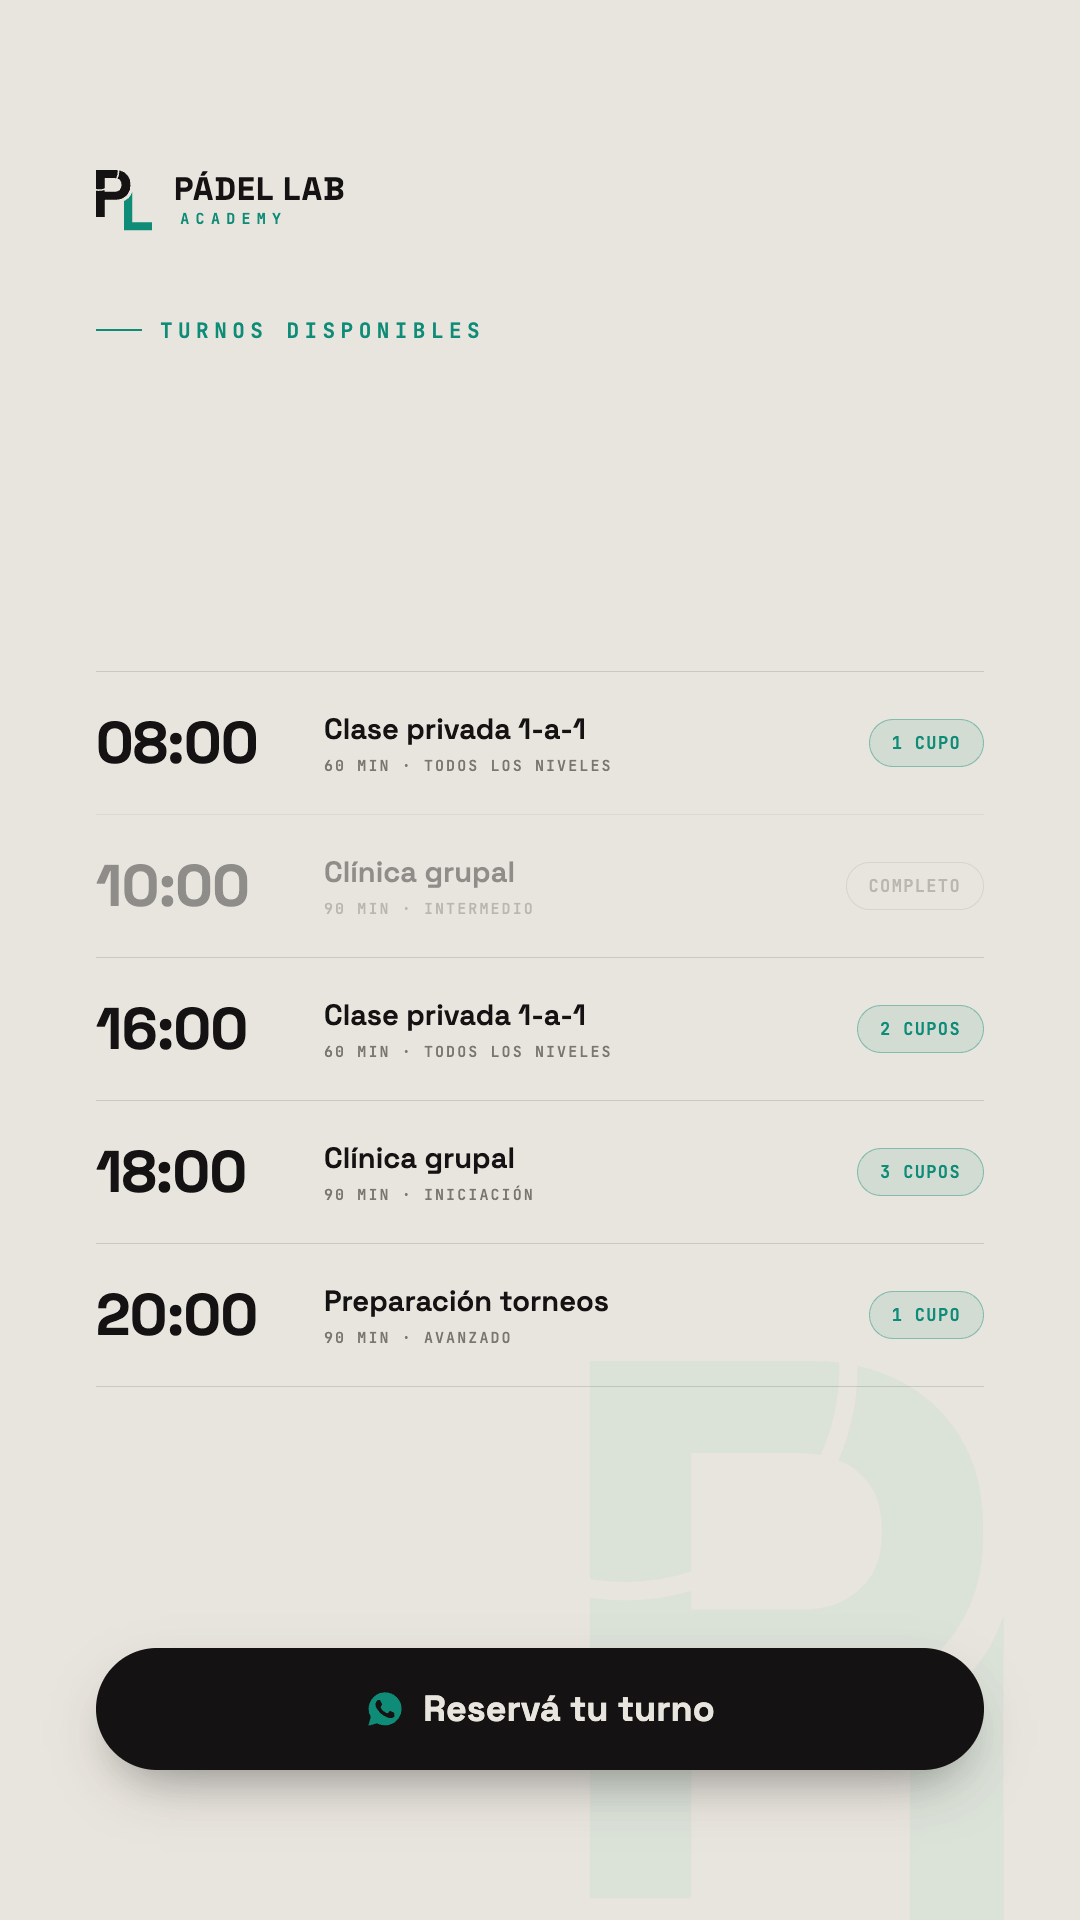
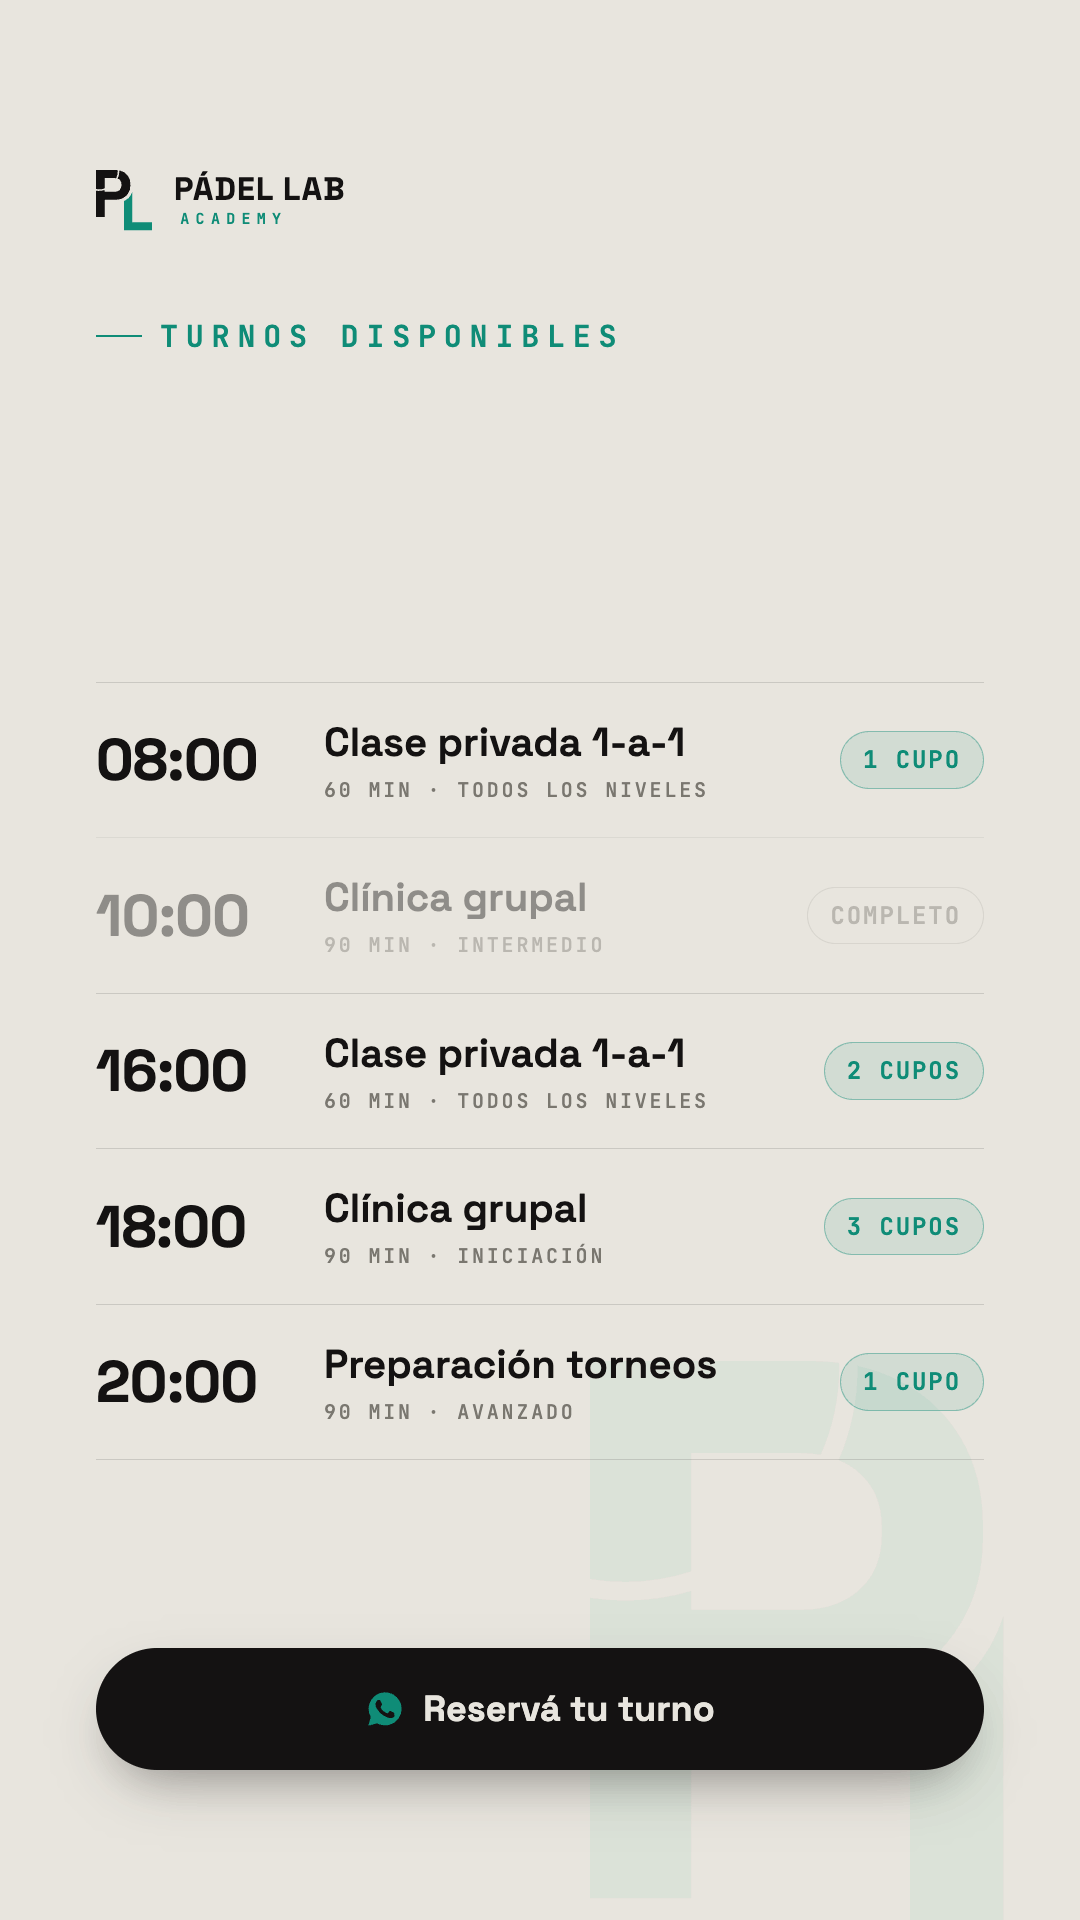
feat: plantilla nueva y métricas recalibradas al diseño actualizado
- assets/plantilla.png reemplazada por el diseño nuevo (eyebrow más grande)
- Filas medidas del nuevo ejemplo: arrancan en y=682 con paso 155,5
- Nombre y bajada más juntos (centro-4 / centro+37), nombre en x=326
- Referencia 'sin fecha' actualizada en la raíz del repo

diff --git a/index.html b/index.html
@@ -214,8 +214,9 @@ input:focus-visible,button:focus-visible,select:focus-visible{outline:2px solid 
     linea:'#DBD8CF', chipTexto:'#0F8666', chipFondo:'rgba(20,160,122,.10)', chipBorde:'rgba(20,160,122,.55)',
     margen:96, derecha:984,
     tituloX:92, titulo1Y:471, titulo2Y:580, tituloPx:124,
-    listaY:670, filaAlto:143, filaMax:6, listaFin:1620,
-    horaPx:62, nombrePx:36, subPx:20, chipPx:20
+    listaY:682, filaAlto:155.5, filaMax:6, listaFin:1615,
+    horaPx:62, nombrePx:36, subPx:20, chipPx:20,
+    infoX:326, horaDy:20, nombreDy:-4, subDy:37
   };
 
   function manana(){
@@ -326,7 +327,7 @@ input:focus-visible,button:focus-visible,select:focus-visible{outline:2px solid 
       /* hora */
       ctx.fillStyle = sin ? T.apagado : T.tinta;
       ctx.font = '700 '+Math.round(T.horaPx*compacta)+'px "Space Grotesk"';
-      ctx.fillText(t.hora || '--:--', T.margen, centro + Math.round(21*compacta));
+      ctx.fillText(t.hora || '--:--', T.margen, centro + Math.round(T.horaDy*compacta));
 
       /* chip (se dibuja antes para saber cuánto lugar queda) */
       var chipTexto = sin ? 'COMPLETO' : t.cupos + ' ' + (t.cupos===1 ? 'CUPO' : 'CUPOS');
@@ -343,7 +344,7 @@ input:focus-visible,button:focus-visible,select:focus-visible{outline:2px solid 
       dibujarTracked(chipTexto, chipX + (chipW - wChipTexto)/2, centro + 7, 3);
 
       /* nombre de la clase */
-      var xInfo = 324, anchoInfo = chipX - 30 - xInfo;
+      var xInfo = T.infoX, anchoInfo = chipX - 30 - xInfo;
       ctx.fillStyle = sin ? T.apagado : T.tinta;
       var nombrePx = Math.round(T.nombrePx * compacta);
       ctx.font = '700 '+nombrePx+'px "Space Grotesk"';
@@ -352,7 +353,7 @@ input:focus-visible,button:focus-visible,select:focus-visible{outline:2px solid 
         nombrePx -= 1;
         ctx.font = '700 '+nombrePx+'px "Space Grotesk"';
       }
-      ctx.fillText(nombre, xInfo, centro - Math.round(2*compacta));
+      ctx.fillText(nombre, xInfo, centro + Math.round(T.nombreDy*compacta));
 
       /* bajada técnica */
       ctx.fillStyle = sin ? T.apagadoSub : T.grisTexto;
@@ -362,7 +363,7 @@ input:focus-visible,button:focus-visible,select:focus-visible{outline:2px solid 
         subPx -= 1;
         ctx.font = '600 '+subPx+'px "JetBrains Mono"';
       }
-      dibujarTracked(subTexto, xInfo, centro + Math.round(56*compacta) - (paso < 100 ? 6 : 0), 3.5);
+      dibujarTracked(subTexto, xInfo, centro + Math.round(T.subDy*compacta), 3.5);
     });
     lineaDivisoria(T.listaY + paso * turnos.length);
   }